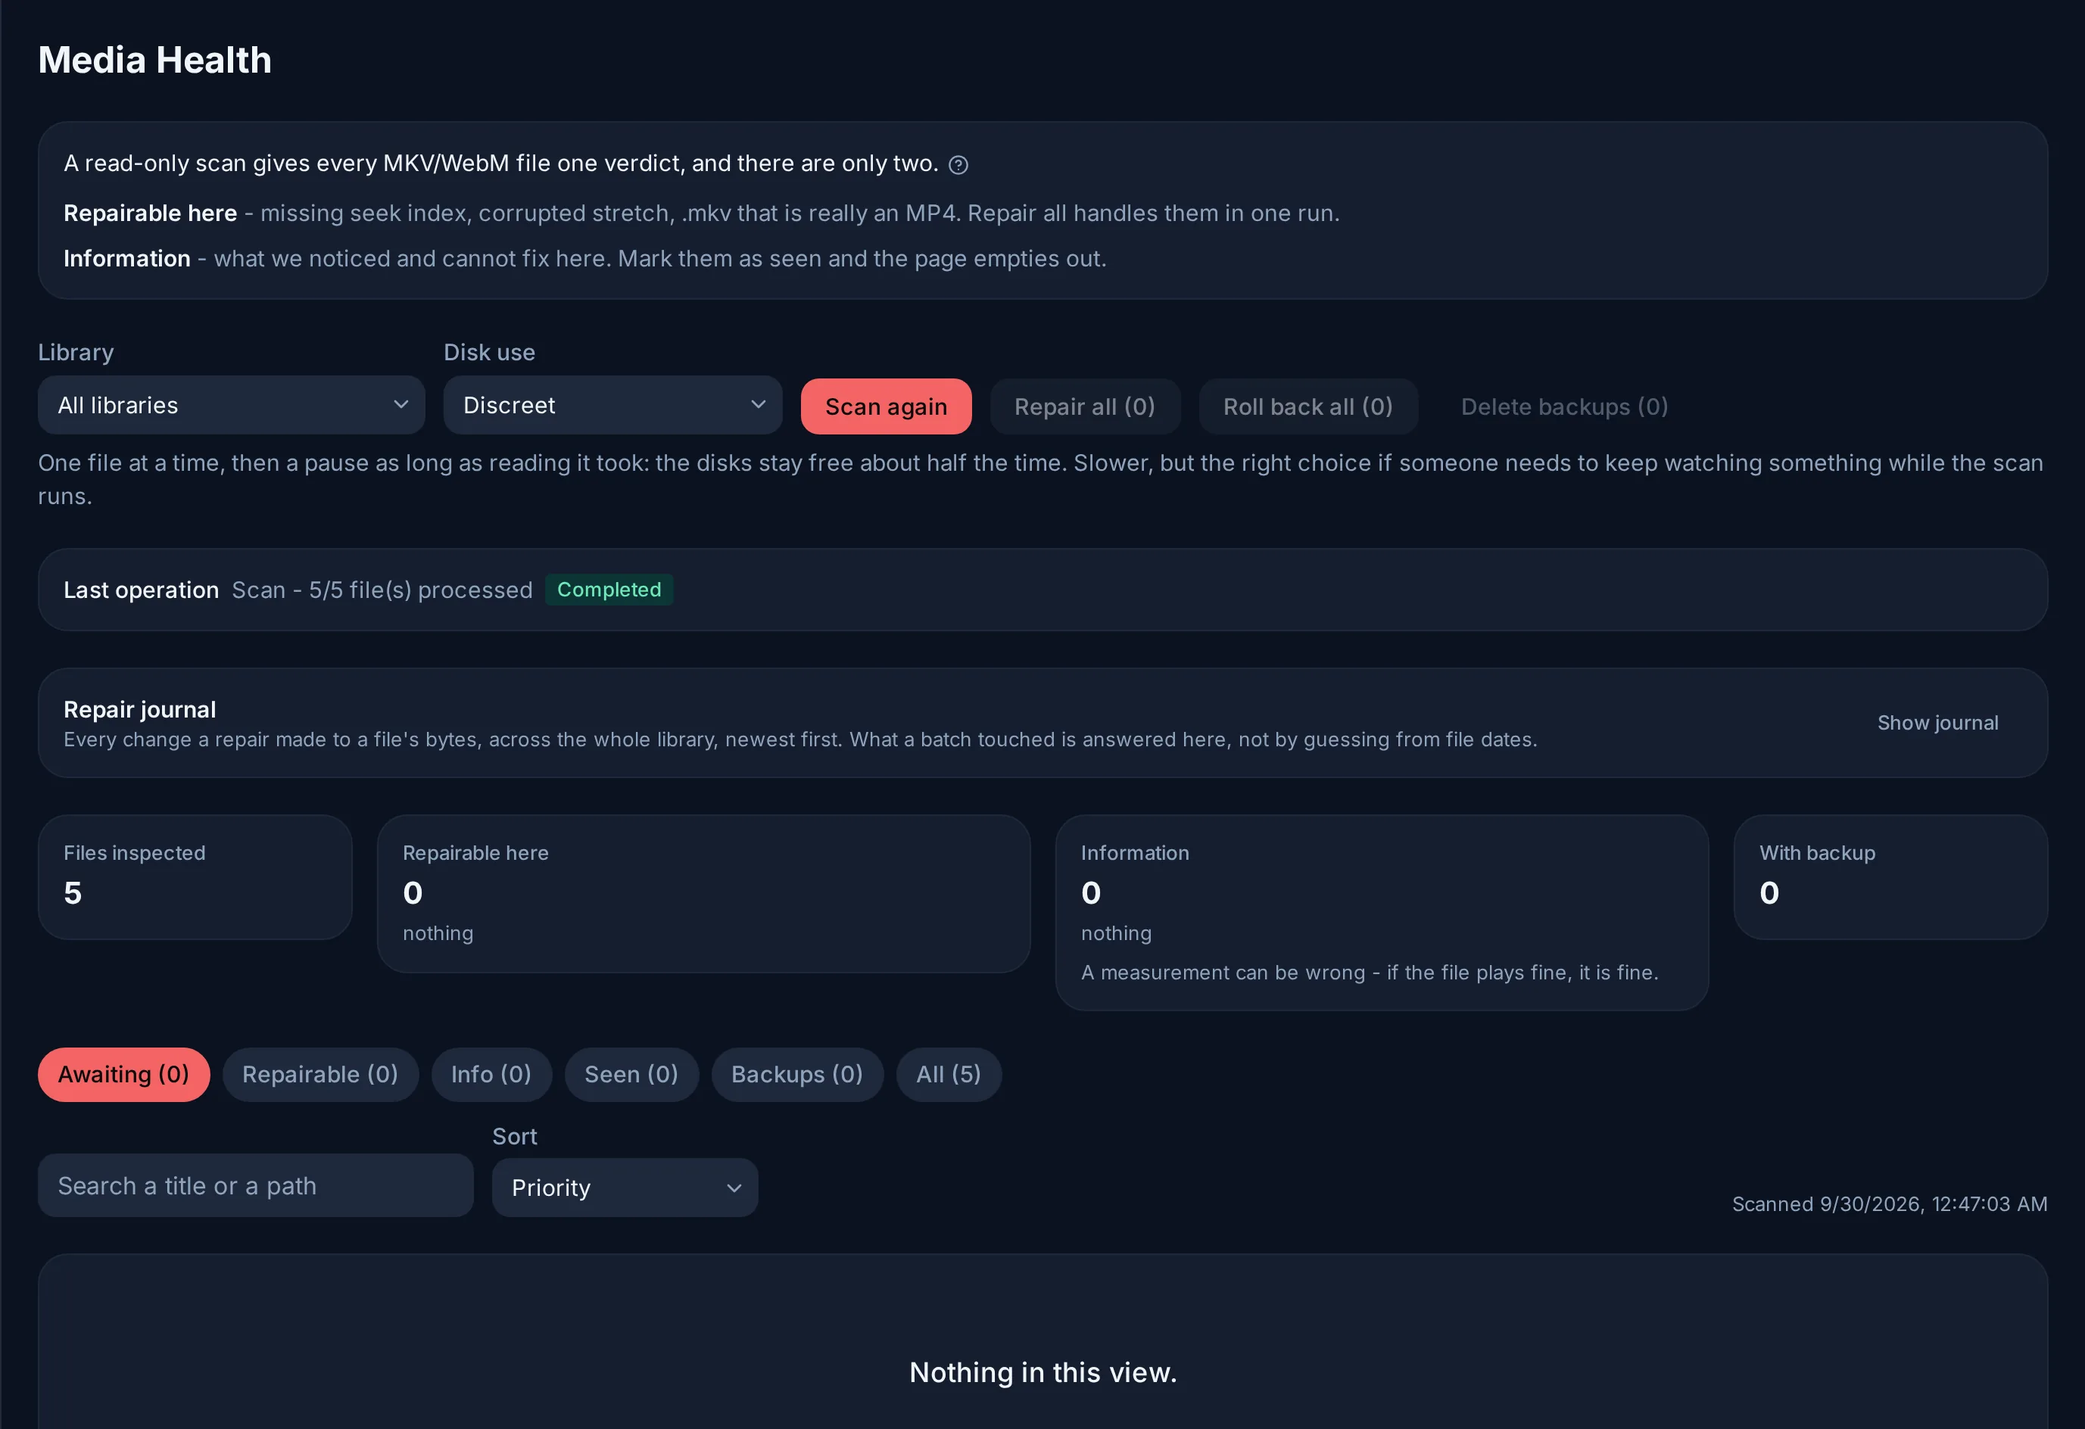
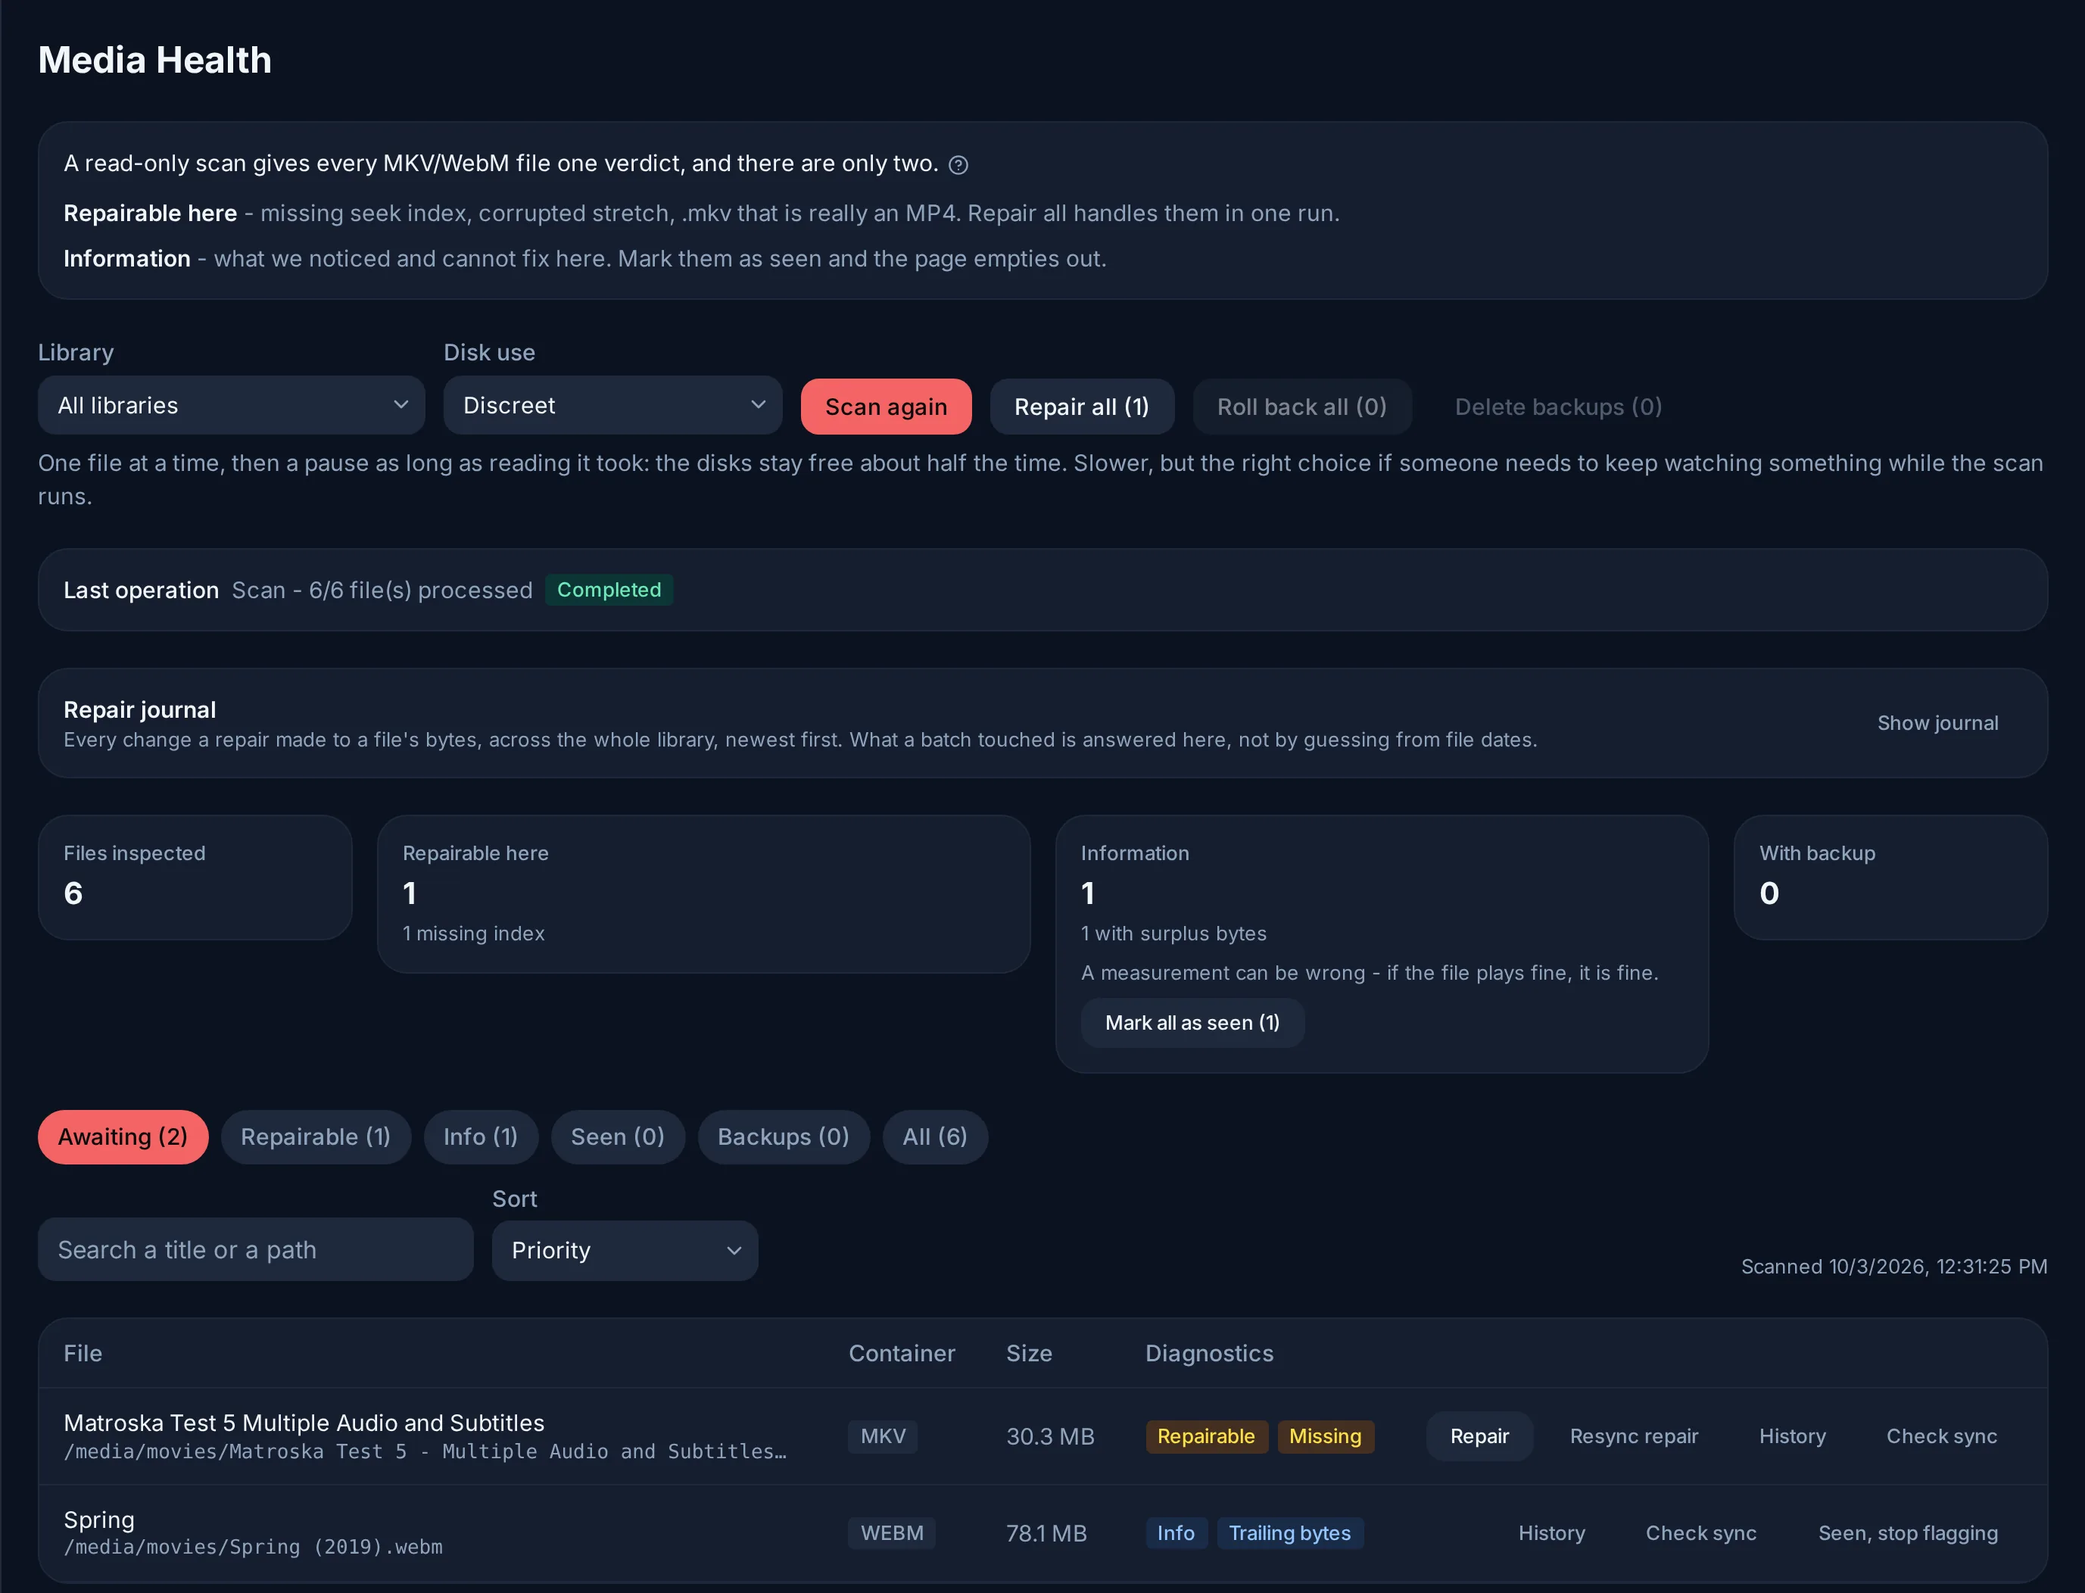
docs(wiki): coherence pass - Edit points at the real source of every page, the install pins the beta tag until a release exists, Stream info reflects the serving plan, Remux captions separate copied tracks from the method, and media health shows real verdicts and a repair

diff --git a/wiki/overrides/partials/actions.html b/wiki/overrides/partials/actions.html
@@ -1,0 +1,15 @@
+{#
+  The Edit button points at the file a reader would actually change.
+
+  mkdocs builds from wiki/build/, which mixes docs/, wiki/content/ and the
+  translations, so its edit_uri sent Home to docs/index.md and every translated
+  page to a docs/<page>.fr.md that does not exist. assemble.py records the real
+  source as edit_source; a page without it shows no Edit button rather than a
+  dead link.
+#}
+{% if page.meta and page.meta.edit_source and "content.action.edit" in features %}
+  <a href="{{ config.repo_url }}/edit/master/{{ page.meta.edit_source }}" title="{{ lang.t('action.edit') }}" class="md-content__button md-icon" rel="edit">
+    {% set icon = config.theme.icon.edit or "material/file-edit-outline" %}
+    {% include ".icons/" ~ icon ~ ".svg" %}
+  </a>
+{% endif %}

diff --git a/wiki/assemble.py b/wiki/assemble.py
@@ -291,6 +291,17 @@ def split_front_matter(text: str) -> tuple[dict, str]:
     return (meta if isinstance(meta, dict) else {}), text[match.end():]
 
 
+def with_edit_source(text: str, repo_path: str) -> str:
+    """Records the file a reader should edit. The build tree flattens docs/,
+    wiki/content/ and the translations into one docs_dir, so mkdocs' own
+    edit_uri points Home at docs/index.md and every translation at a .fr.md
+    that does not exist; overrides/partials/actions.html reads this instead."""
+    meta, body = split_front_matter(text)
+    meta["edit_source"] = repo_path
+    header = yaml.safe_dump(meta, allow_unicode=True, sort_keys=False).strip()
+    return f"---\n{header}\n---\n{body}"
+
+
 # ── Sources ───────────────────────────────────────────────────────────────────
 # A page may end with an HTML comment listing what its behavioural claims rest
 # on (a file and a symbol, a test, an ADR, an i18n key). It is invisible on the
@@ -426,6 +437,7 @@ def main() -> int:
         english, dangling = rewrite_offsite_links(rel, english, published)
         unresolved.extend(dangling)
 
+        english = with_edit_source(english, str(src.relative_to(REPO)))
         dest = staging / rel
         dest.parent.mkdir(parents=True, exist_ok=True)
         dest.write_text(english, encoding="utf-8")
@@ -460,6 +472,7 @@ def main() -> int:
             # Page settings (hide: navigation...) ride in the same front matter
             # as source_sha and reviewed; they go back on top, above any banner.
             page_meta = {k: v for k, v in meta.items() if k not in ("source_sha", "reviewed")}
+            page_meta["edit_source"] = str(tr.relative_to(REPO))
             if page_meta:
                 header = yaml.safe_dump(page_meta, allow_unicode=True, sort_keys=False).strip()
                 body = f"---\n{header}\n---\n\n" + body

diff --git a/wiki/translations/fr/runbooks/media-health.md b/wiki/translations/fr/runbooks/media-health.md
@@ -1,5 +1,5 @@
 ---
-source_sha: 974b056c376498e40c4211ccbde7fd2d3f94c52f343c81353f4cc6f083b62a40
+source_sha: 2dcb9083e6c812b05a9ddfff7acdd81f745f1367b15c876fbc137c91dc3b02c1
 reviewed: true
 ---
 # Santé des médias
@@ -10,8 +10,8 @@ sait réparer, il le répare ; le reste est signalé une fois et peut être marq
 comme vu.
 
 <figure class="evey-shot" markdown="span">
-  ![Admin → Santé des médias après une analyse des bibliothèques de démo](../images/admin-media-health.webp){ loading=lazy }
-  <figcaption>Une analyse sans rien à faire : tous les fichiers sont sains (interface en anglais).</figcaption>
+  ![Admin → Santé des médias après une analyse : un fichier à réparer, une remarque](../images/admin-media-health.webp){ loading=lazy }
+  <figcaption>Une analyse avec un fichier qu'Evey sait réparer (son index de lecture manque) et une remarque (des octets en trop après la fin du fichier, sans conséquence) (interface en anglais).</figcaption>
 </figure>
 
 ## Trois verdicts
@@ -135,6 +135,11 @@ copie :
 | Renommé en `.mp4` | Lui rend son nom d'origine. |
 | Index reconstruit | Rien à annuler : l'image et le son sont intacts. |
 | Zone corrompue sautée | Seule la sauvegarde rend les octets perdus, c'est pourquoi cette réparation en garde toujours une. |
+
+<figure class="evey-shot" markdown="span">
+  ![Admin → Santé des médias après Tout réparer, journal des réparations ouvert](../images/admin-media-health-repaired.webp){ loading=lazy }
+  <figcaption>Après <strong>Tout réparer</strong> : l'index est reconstruit, le journal le consigne, et le fichier sort de la file ; la remarque reste. Cet index a été inscrit dans le fichier sur place, ce qui ne garde aucune copie : seul un fichier qui doit être réécrit garde une sauvegarde (interface en anglais).</figcaption>
+</figure>
 
 Les réparations écrivent dans vos dossiers de médias. Ils doivent être montés en
 lecture-écriture dans le conteneur (pas de `:ro` sur le volume) ; après une passe

diff --git a/docs/runbooks/media-health.md b/docs/runbooks/media-health.md
@@ -5,8 +5,8 @@ each one a single answer. The aim is a page that empties out: what Evey can fix,
 it fixes; the rest is mentioned once and can be marked as seen.
 
 <figure class="evey-shot" markdown="span">
-  ![Admin → Media Health after a scan of the demo libraries](../images/admin-media-health.webp){ loading=lazy }
-  <figcaption>A scan with nothing left to do: every file is healthy.</figcaption>
+  ![Admin → Media Health after a scan: one file to repair, one remark](../images/admin-media-health.webp){ loading=lazy }
+  <figcaption>A scan with one file Evey can repair (its seek index is missing) and one remark (surplus bytes after the end of the file, harmless).</figcaption>
 </figure>
 
 ## Three verdicts
@@ -118,6 +118,11 @@ undone from there without any copy:
 | Renamed to `.mp4` | Renames it back. |
 | Index rebuilt | Nothing to undo: picture and sound are untouched. |
 | Damaged stretch skipped | Only the backup brings the lost bytes back, which is why this repair always keeps one. |
+
+<figure class="evey-shot" markdown="span">
+  ![Admin → Media Health after Repair all, with the repair journal open](../images/admin-media-health-repaired.webp){ loading=lazy }
+  <figcaption>After <strong>Repair all</strong>: the index is rebuilt, the journal records it, and the file leaves the queue; the remark stays. This index was patched into the file in place, which keeps no copy: only a file that has to be rewritten keeps a backup.</figcaption>
+</figure>
 
 Repairs write into your media folders. They must be mounted read-write in the
 container (no `:ro` on the volume); after a run that met a read-only volume,

diff --git a/wiki/translations/fr/backups.md b/wiki/translations/fr/backups.md
@@ -1,5 +1,5 @@
 ---
-source_sha: cd66a9194ddc930c849aec83b5d0a19bb86c2f982c6fcf9e5f4211e0a00e0cde
+source_sha: f29992016990abfb7f2de5cc191167f6e3c95702d5dc83dee16f37d7ab8540c8
 reviewed: true
 ---
 # Sauvegardes et mises à jour
@@ -73,11 +73,12 @@ santé dès que le serveur répond. Evey vérifie toutes les 6 heures si une ima
 est publiée et le signale dans le panneau d'administration ; il ne se met
 jamais à jour tout seul.
 
-**Figez ce que vous exécutez.** `latest` suit la dernière version stable.
-Pour un serveur sur lequel vous comptez, mettez un tag de version (`0.2.0`)
-ou un tag immuable `sha-<commit>` sur la ligne `image:`, pour que deux `pull`
-à un jour d'écart exécutent le même code. Un tag de branche comme
-`beta-0.0.1` bouge à chaque modification.
+**Figez ce que vous exécutez.** Pendant la bêta, il n'y a ni version
+numérotée ni tag `latest` ; le tag de branche `beta-0.0.1` bouge à chaque
+modification. Pour un serveur sur lequel vous comptez, mettez un tag immuable
+`sha-<commit>` sur la ligne `image:`, pour que deux `pull` à un jour d'écart
+exécutent le même code. Quand des versions existeront, `latest` suivra la
+dernière version stable, et un tag de version (`0.2.0`) permettra de la figer.
 
 **Savoir quelle version tourne.** `docker exec evey-server evey version`
 affiche la version et le commit du binaire en cours d'exécution.

diff --git a/wiki/translations/fr/installation.md b/wiki/translations/fr/installation.md
@@ -1,5 +1,5 @@
 ---
-source_sha: a6c61f9f7b1e619f46c4d5eea7ca2c2b93356f93c04681e95963303bdf287723
+source_sha: 29c3c3bee4511329f7593cd5c80bd27346da9d87fb5b7cd07624462bd864257b
 reviewed: true
 ---
 # Installation
@@ -38,7 +38,7 @@ médias sur la dernière ligne de `volumes`.
 ```yaml title="docker-compose.yml"
 services:
   evey:
-    image: gravityz/evey:latest # (1)!
+    image: gravityz/evey:beta-0.0.1 # (1)!
     container_name: evey-server
     ports:
       - "9091:9091" # (2)!
@@ -53,9 +53,11 @@ volumes:
   evey-cache:
 ```
 
-1. `latest` désigne la dernière version stable. Figez un tag dès que le
-   serveur est utilisé pour de bon, pour que deux `pull` à un jour d'écart exécutent
-   le même code : voir [Sauvegardes et mises à jour](backups.md#updating-evey).
+1. Evey est en bêta et n'a pas encore de version numérotée, donc pas de tag
+   `latest` : `beta-0.0.1` suit la branche de développement et bouge à chaque
+   modification. Pour exécuter le même code d'un `pull` à l'autre, mettez ici
+   un tag immuable `sha-<commit>` : voir
+   [Sauvegardes et mises à jour](backups.md#updating-evey).
 2. L'API et l'interface web, sur un seul port, en HTTP simple.
 3. Tout ce qui appartient à Evey : base de données, clé de signature, mots de
    passe générés, index de recherche, miniatures de navigation, visuels, logs,

diff --git a/docs/backups.md b/docs/backups.md
@@ -63,10 +63,11 @@ the container reports healthy once it serves again. Evey checks every 6 hours
 whether a newer image is published and says so in the admin panel; it never
 updates itself.
 
-**Pin what you run.** `latest` follows the most recent stable release. For a server
-you rely on, put a release tag (`0.2.0`) or an immutable `sha-<commit>` tag on
-the `image:` line, so that two pulls a day apart run the same code. A branch
-tag such as `beta-0.0.1` moves with every change.
+**Pin what you run.** During the beta there is no numbered release and no
+`latest` tag; the branch tag `beta-0.0.1` moves with every change. For a server
+you rely on, put an immutable `sha-<commit>` tag on the `image:` line, so that
+two pulls a day apart run the same code. Once releases exist, `latest` will
+follow the most recent stable one, and a release tag (`0.2.0`) will pin it.
 
 **Which version is running.** `docker exec evey-server evey version` prints the
 version and the commit of the running binary.

diff --git a/wiki/translations/fr/playback/how-playback-is-decided.md b/wiki/translations/fr/playback/how-playback-is-decided.md
@@ -1,5 +1,5 @@
 ---
-source_sha: 88ef0be48e8114ca12ceadc61b0194ba4760d654ae7cc58afdf1a52a3405c78f
+source_sha: 9f7080bc4043f1c842b77bf946e0f6b31769ab3ddde23345ef268ed665833a85
 reviewed: true
 ---
 # Comment Evey choisit le mode de lecture
@@ -102,7 +102,7 @@ raisons.
 
 <figure class="evey-shot evey-shot--narrow" markdown="span">
   ![Les Infos du flux dans le lecteur web, pour un remux](../images/player-stream-info.webp){ loading=lazy }
-  <figcaption>Un remux : vidéo et audio copiés, et la seule raison pour laquelle le fichier n'est pas lu tel quel (interface en anglais).</figcaption>
+  <figcaption>Remux : l'emballage change, les pistes vidéo et audio restent intactes, et la seule raison pour laquelle le fichier n'est pas lu tel quel. « Copié » décrit les pistes, pas le mode de lecture (interface en anglais).</figcaption>
 </figure>
 
 Les raisons se répartissent en quatre catégories :

diff --git a/wiki/translations/fr/design-principles.md b/wiki/translations/fr/design-principles.md
@@ -1,5 +1,5 @@
 ---
-source_sha: dffa9823329d7253d7991f9037012a372bdeeb2765f9c4c68f0d73f04efc4dbc
+source_sha: 052d898a070360c714ae40767f822a9be2ba4239c7619e40e5f0b41a5d8b6ac2
 reviewed: true
 ---
 # Principes de conception
@@ -64,8 +64,8 @@ Voir [Diffusion (Chromecast)](playback/casting.md),
 Une lecture est décidée une seule fois, au lancement, et tous les manifestes
 et segments de la session sont servis à partir de cette décision. Le lecteur
 ne reçoit jamais de segments issus de deux encodages, et ce qu'affichent les
-Infos du flux provient du même plan que celui qu'exécute l'encodeur, ce que des
-tests vérifient dans les deux sens.
+Infos du flux provient du même plan de service que celui qu'utilise la chaîne
+de lecture, ce que des tests vérifient dans les deux sens.
 
 Voir [ADR-0030](adr/0030-one-plan-one-decision.md),
 [ADR-0024](adr/0024-playback-plan-resolver.md).

diff --git a/docs/installation.md b/docs/installation.md
@@ -33,7 +33,7 @@ line.
 ```yaml title="docker-compose.yml"
 services:
   evey:
-    image: gravityz/evey:latest # (1)!
+    image: gravityz/evey:beta-0.0.1 # (1)!
     container_name: evey-server
     ports:
       - "9091:9091" # (2)!
@@ -48,8 +48,10 @@ volumes:
   evey-cache:
 ```
 
-1. `latest` is the most recent stable release. Pin a tag once you run Evey for real,
-   so that two pulls a day apart run the same code: see
+1. Evey is in beta and has no numbered release yet, so there is no `latest`
+   tag: `beta-0.0.1` follows the development branch and moves with every
+   change. To run the same code from one pull to the next, put an immutable
+   `sha-<commit>` tag here instead: see
    [Backups and updates](backups.md#updating-evey).
 2. The API and the web interface, on one port, in plain HTTP.
 3. Everything Evey owns: database, signing key, generated passwords, search

diff --git a/docs/playback/how-playback-is-decided.md b/docs/playback/how-playback-is-decided.md
@@ -89,7 +89,7 @@ itself), and under **Why not direct play** the reasons.
 
 <figure class="evey-shot evey-shot--narrow" markdown="span">
   ![Stream info in the web player, for a Remux](../images/player-stream-info.webp){ loading=lazy }
-  <figcaption>A Remux: video and audio copied, and the one reason the file is not played as it is.</figcaption>
+  <figcaption>Remux: the packaging changes, the video and audio tracks are left intact, and the one reason the file is not played as it is. "Copied" describes the tracks, not the playback method.</figcaption>
 </figure>
 
 The reasons fall into four groups:

diff --git a/docs/design-principles.md b/docs/design-principles.md
@@ -56,7 +56,7 @@ See [Casting](playback/casting.md), [Hardware acceleration](administration/hardw
 A playback is decided once, when it starts, and every manifest and segment of
 the session is served from that decision. The player never receives segments
 from two encodings, and what Stream info reports is derived from the same
-plan the encoder runs, checked by tests in both directions.
+serving plan the playback pipeline uses, checked by tests in both directions.
 
 See [ADR-0030](adr/0030-one-plan-one-decision.md),
 [ADR-0024](adr/0024-playback-plan-resolver.md).
